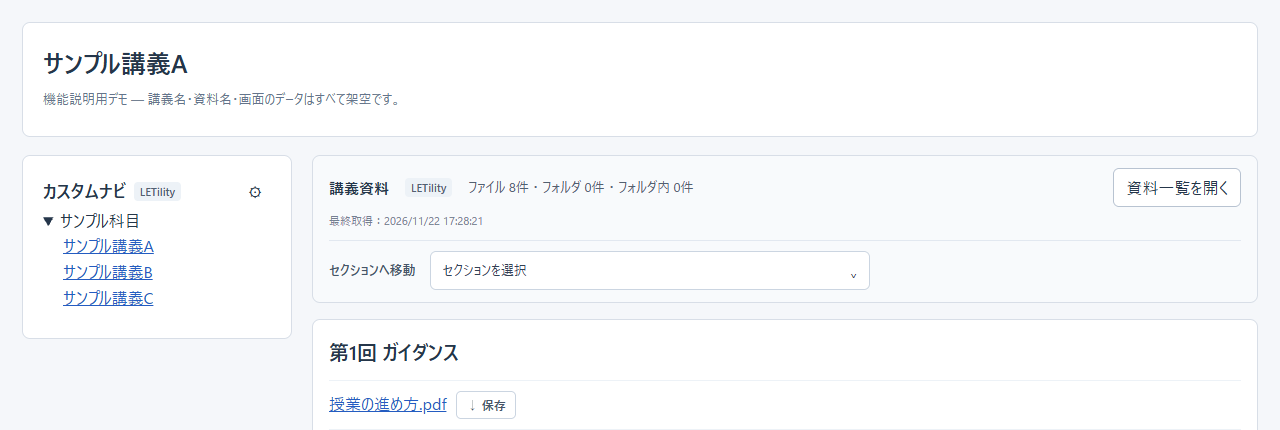
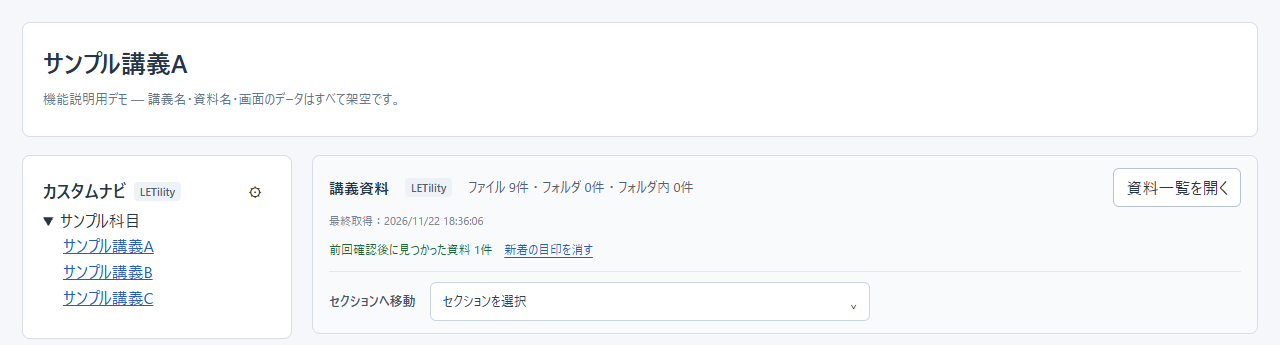
資料の新着目印の使い方とプライバシー説明を更新

diff --git a/guide.html b/guide.html
@@ -7,6 +7,7 @@
 <dt>CLASS時間割からのプリセット</dt><dd>CLASSで表示した学生時間割表をもとに、LETUSのナビ編集で年度・学期別や曜日別の講義グループを作れます。</dd>
 <dt>セクションジャンプと前回の位置</dt><dd>講義のセクションを検索して移動できます。講義ごとに最後に開いたセクションを記録し、次回は「前回：○○へ」ボタンから戻れます。</dd>
 <dt>講義資料一覧と検索</dt><dd>講義ページの資料とフォルダ内のファイルをまとめて確認し、資料名・セクション名で絞り込めます。</dd>
+<dt>資料の新着目印</dt><dd>前回確認後に新しく見つかった資料へ「新着」の目印を付けます。講義ページと資料一覧に表示し、講義ごとにまとめて消せます。初回は比較の基準を作ります。</dd>
 <dt>個別・まとめてダウンロード</dt><dd>資料の横の保存ボタンや資料一覧から保存できます。選択した資料の個別保存とZIP保存、ZIP内のセクション別フォルダ分けに対応します。</dd>
 <dt>提出ファイルの簡易プレビュー</dt><dd>課題ページの提出済み・アップロード済みファイルを確認できます。PDF、画像、テキスト・CSV、DOCX、XLS・XLSX、PPTX、ZIP内の項目一覧、対応する音声・動画を表示します。</dd>
 <dt>CLASSの出席コード入力補助</dt><dd>4桁の入力欄で、全角数字の補正、4桁の貼り付け、Backspaceでの入力修正、クリアボタンを使えます。CLASSが学外ネットワークと表示している場合には、登録前に確認を出します。</dd>
@@ -15,6 +16,7 @@
 <section id="navigation"><h3>講義をカスタムナビに整理する</h3><ol><li>LETUSの「カスタムナビ」にある編集ボタンを開きます。LETilityの小さな表示が目印です。</li><li>グループを作り、画面に読み込まれた講義を選んで追加します。必要に応じて名前や順序を変更し、「変更を保存」を押します。</li><li>時間割から作る場合は、先にCLASSの学生時間割表を表示します。その後LETUSを再読み込みし、ナビ編集の「プリセットから追加」で年度・学期と分類方法を選びます。</li><li>対応する講義が見つからない場合は、LETUS側の講義一覧を確認してから手動で追加してください。</li></ol><figure><a href="images/letus-overview.png"><img src="images/letus-overview.png" alt="架空のサンプル講義Aに表示されたカスタムナビ、講義資料の概要とセクションジャンプ" loading="lazy"></a><figcaption>講義トップのデモ：カスタムナビと資料・セクションへの入口。（画像を押すと拡大できます）</figcaption></figure></section>
 <section id="sections"><h3>セクションへ移動・前回の位置へ戻る</h3><ol><li>講義トップの「セクションへ移動」からセクションを選びます。検索欄でも絞り込めます。</li><li>次回は「前回：○○へ」を押すと、最後に開いたセクションへ移動します。閉じた見出しは展開します。</li><li>ジャンプで選んだ、見出しを展開した、または中の資料リンクを開いたときに記録します。初期表示やスクロールだけでは更新しません。前回のセクションが現在のページにない場合、ボタンは表示されません。</li></ol></section>
 <section id="downloads"><h3>講義資料を探して保存する</h3><ol><li>講義トップで「資料一覧を開く」を押し、資料名やセクション名で検索します。</li><li>必要な資料にチェックを付け、「ダウンロード設定」で個別保存・ZIP保存などを選び、ダウンロードします。資料の横の保存ボタンから個別に保存することもできます。</li><li>利用制限のある資料は大学側の条件に従います。ログイン切れなどで保存できない場合は、LETUSにログインし直してから再度開いてください。</li></ol><figure><a href="images/resource-list.png"><img src="images/resource-list.png" alt="架空の資料名が並ぶ講義資料一覧。検索、選択、ダウンロード設定を表示" loading="lazy"></a><figcaption>資料一覧のデモ：資料名で検索し、必要なファイルを選んで保存できます。（画像を押すと拡大できます）</figcaption></figure></section>
+<section id="news"><h3>前回確認後に見つかった資料を確認する</h3><ol><li>講義ページを初めて表示した際に、資料一覧を比較の基準として記録します。この時点で既存の資料をすべて新着にすることはありません。</li><li>次に講義ページを表示・再読み込みすると、新しく見つかった資料の横と資料一覧に「新着」が付きます。フォルダ内で新しく見つかったファイルも対象です。</li><li>確認を終えたら「新着の目印を消す」で、その講義の目印をまとめて消せます。資料を開いたかどうかを示す既読・未読表示ではありません。</li><li>目印は実際のアップロード日時を示しません。初めて正常に読み取れた既存フォルダや、保存データ削除・30日を超える未利用などで比較の基準がなくなった場合は、再度基準を作ります。</li></ol></section>
 <section id="preview"><h3>提出ファイルを確認する</h3><ol><li>LETUSの課題ページで、対応する提出済み・アップロード済みファイルのプレビューボタンを押します。</li><li>表示内容を確認し、「閉じる」で終了します。元のファイルが必要な場合はダウンロードします。</li><li>Officeファイルは内容確認用の簡易表示です。元のレイアウトを完全には再現しません。ZIPは内部の項目一覧を表示します。提出の確定やファイルの削除はLETUSの通常画面で行ってください。</li></ol></section>
 <section id="attendance"><h3>CLASSの出席コードを入力する</h3><ol><li>CLASSの出席登録画面で、授業で案内された4桁のコードを入力します。4桁まとめて貼り付けることもできます。</li><li>入力し直すときはBackspaceや「クリア」を使います。登録はCLASSの通常の登録ボタンで行い、結果もCLASS上で確認してください。</li><li>学外ネットワークの確認が出た場合は、CLASSの表示と接続状況を確認して操作を選びます。出席条件は授業・大学の案内に従ってください。</li></ol><figure><a href="images/class-attendance.png"><img src="images/class-attendance.png" alt="コードを空欄にした出席入力のデモ。4桁の入力欄とLETilityのクリアボタン" loading="lazy"></a><figcaption>出席入力補助のデモ：4桁の入力欄をまとめてクリアできます。（画像を押すと拡大できます）</figcaption></figure></section>
 <section id="feedback"><h3>アンケートの文章を広い欄で編集する</h3><ol><li>LETUSのアンケート回答画面で、記述欄の下にある「拡大して入力」を押します。</li><li>大きな編集欄で文章を読み直し、修正します。文字数と、元の回答欄に設定された上限を表示します。上限の指定がない欄には、拡張機能独自の上限を追加しません。送信時のLETUS側のチェックはそのままです。</li><li>「反映して閉じる」で元の回答欄に戻します。キャンセルした場合は元の回答を変更しません。元が1行の入力欄であれば、改行はスペースに変換します。</li><li>回答の送信はLETUSの通常の送信ボタンから行ってください。拡大画面で編集しただけでは送信されず、入力内容を拡張機能の保存領域へ保存することもありません。</li></ol></section>

diff --git a/index.html b/index.html
@@ -1,9 +1,10 @@
 <!doctype html><html lang="ja"><head><meta charset="utf-8"><meta name="viewport" content="width=device-width,initial-scale=1"><title>LETility プライバシーポリシー</title><style>body{font:16px/1.8 system-ui,sans-serif;max-width:780px;margin:40px auto;padding:0 24px;color:#243247}h1{font-size:26px}h2{font-size:20px;margin-top:30px}</style></head><body><nav aria-label="関連ページ" style="margin-bottom:24px"><a href="guide.html">LETilityの機能一覧・使い方</a></nav><h1>LETility プライバシーポリシー</h1><p>更新日：2026-11-22</p><h2>非公式の拡張機能です</h2><p>LETilityは、LETUS・CLASSの閲覧や資料操作を補助する非公式の拡張機能です。東京理科大学および各システムの提供者による提供・承認を示すものではありません。</p>
 <h2>取得する情報と目的</h2><p>講義名・講義ID・科目コード・曜日時限、資料名・資料URL・利用制限などを、カスタムナビゲーションと資料一覧のために取得します。CLASSの時間割は表示したときに読み取ります。出席補助では、対象の4桁入力欄と学内・学外の判定表示を参照します。出席コードは保存しません。</p>
+<h2>資料の新着目印</h2><p>講義ページを表示・再読み込みした際、資料やフォルダ内ファイルの一覧情報を比較します。比較済みの資料ID・フォルダ内ファイルのパス・新着の目印をブラウザ内に保存します。初回は比較の基準を作り、次回以降に新しく見つかった資料へ目印を付けます。新着の目印は実際のアップロード日時や既読・未読を示すものではありません。判定のために資料ファイル本体を取得・解析することはありません。目印は講義ごとに消すことができ、比較用の記録はその講義の最終取得から30日を目安に次の利用時に整理します。保存データの削除でも消去できます。</p>
 <h2>最後に開いたセクション</h2><p>講義ごとに、最後にジャンプで選んだ、見出しを展開した、または中の資料リンクを開いたセクションのIDと日時を1件だけ保存し、次回の移動ボタンに使います。スクロールしただけでは記録しません。この記録のためにセクション名・資料URL・操作履歴全体を追加保存することはありません。記録は400日を目安に次の利用時に削除し、保存データの削除でも消去できます。</p>
 <h2>アンケートの記述補助</h2><p>LETUSのアンケート記述欄を拡大して編集するため、設問の表示名と回答欄の内容を、その画面内で読み取ります。編集中の文章は拡大画面を閉じるまで一時的に保持し、反映操作で元の回答欄に戻します。拡張機能の保存領域への保存や開発者への送信は行いません。回答の送信は、利用者がLETUSの通常の送信ボタンから行います。</p>
 <h2>提出ファイルと認証情報</h2><p>プレビューを押したときに、提出済み・アップロード済みのファイルをLETUSから取得し、ブラウザ内で解析・表示します。下書き一覧の取得には、そのページのsesskeyと既存のログインセッションを使います。パスワードを読み取る処理はなく、sesskeyやファイル本体を拡張機能の保存領域には保存しません。提出・削除を代行する機能はありません。</p>
 <h2>通信と第三者提供</h2><p>機能のために通信する相手はLETUSです。CLASSの画面情報もブラウザ内で処理します。開発者のサーバーへの送信、広告、アクセス解析、第三者への販売・提供は行いません。外部ライブラリは同梱し、実行時に外部CDNから読み込みません。大学側のアクセスログやブラウザのキャッシュには各サービス・ブラウザの扱いが適用されます。</p>
-<h2>保存先と保存期間</h2><p>ナビゲーション設定、履修情報、資料情報、ダウンロード設定、確認したポリシーの版を、このChromeプロファイルの拡張機能専用領域に保存します。Chromeの同期用保存領域は使いません。資料情報は30日、履修情報は400日を目安に期限切れとして削除します。設定と確認記録は削除するまで保持します。期限の整理は次の利用時に行います。</p>
+<h2>保存先と保存期間</h2><p>ナビゲーション設定、履修情報、資料情報、ダウンロード設定、確認したポリシーの版を、このChromeプロファイルの拡張機能専用領域に保存します。Chromeの同期用保存領域は使いません。資料情報は最終取得から30日、履修情報は最終取得から400日を目安に期限切れとして削除します。設定と確認記録は削除するまで保持します。期限の整理は次の利用時に行います。</p>
 <h2>削除・停止と利用上の注意</h2><p>拡張機能のアイコン、またはChromeの拡張機能のオプションから、保存データを削除できます。削除後に対象ページを利用すると情報は再取得されます。利用を停止するにはChromeの拡張機能管理で無効化または削除してください。アンインストールすると拡張機能の保存領域も削除されます。自分で保存したダウンロードファイルと大学側のデータは削除されません。同じChromeプロファイルでは大学アカウント1つでの利用を想定しています。</p>
 <h2>利用目的の制限と変更</h2><p>取得した情報は、ここに記載した学習画面の補助機能にのみ使用します。ChromeウェブストアのユーザーデータポリシーとLimited Useの要件に従い、広告目的の利用や開発者による内容の閲覧は行いません。データの扱いを変更した場合は、更新した説明の確認を求めます。</p></body></html>
